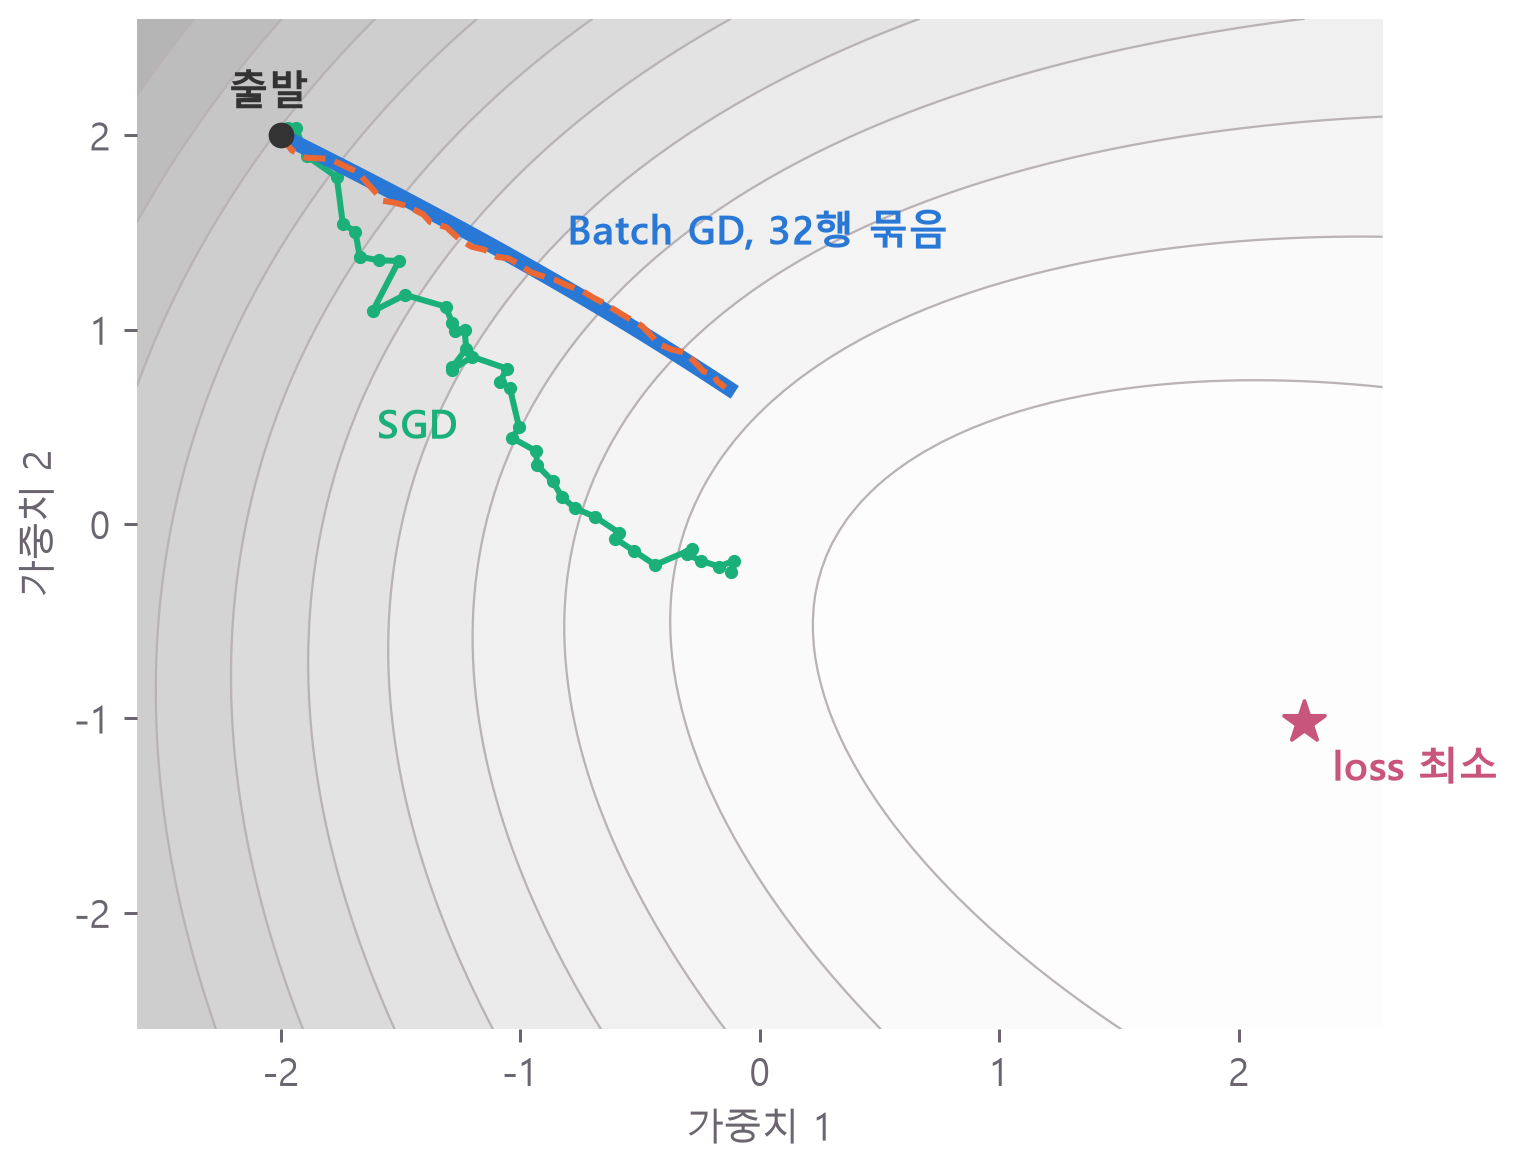
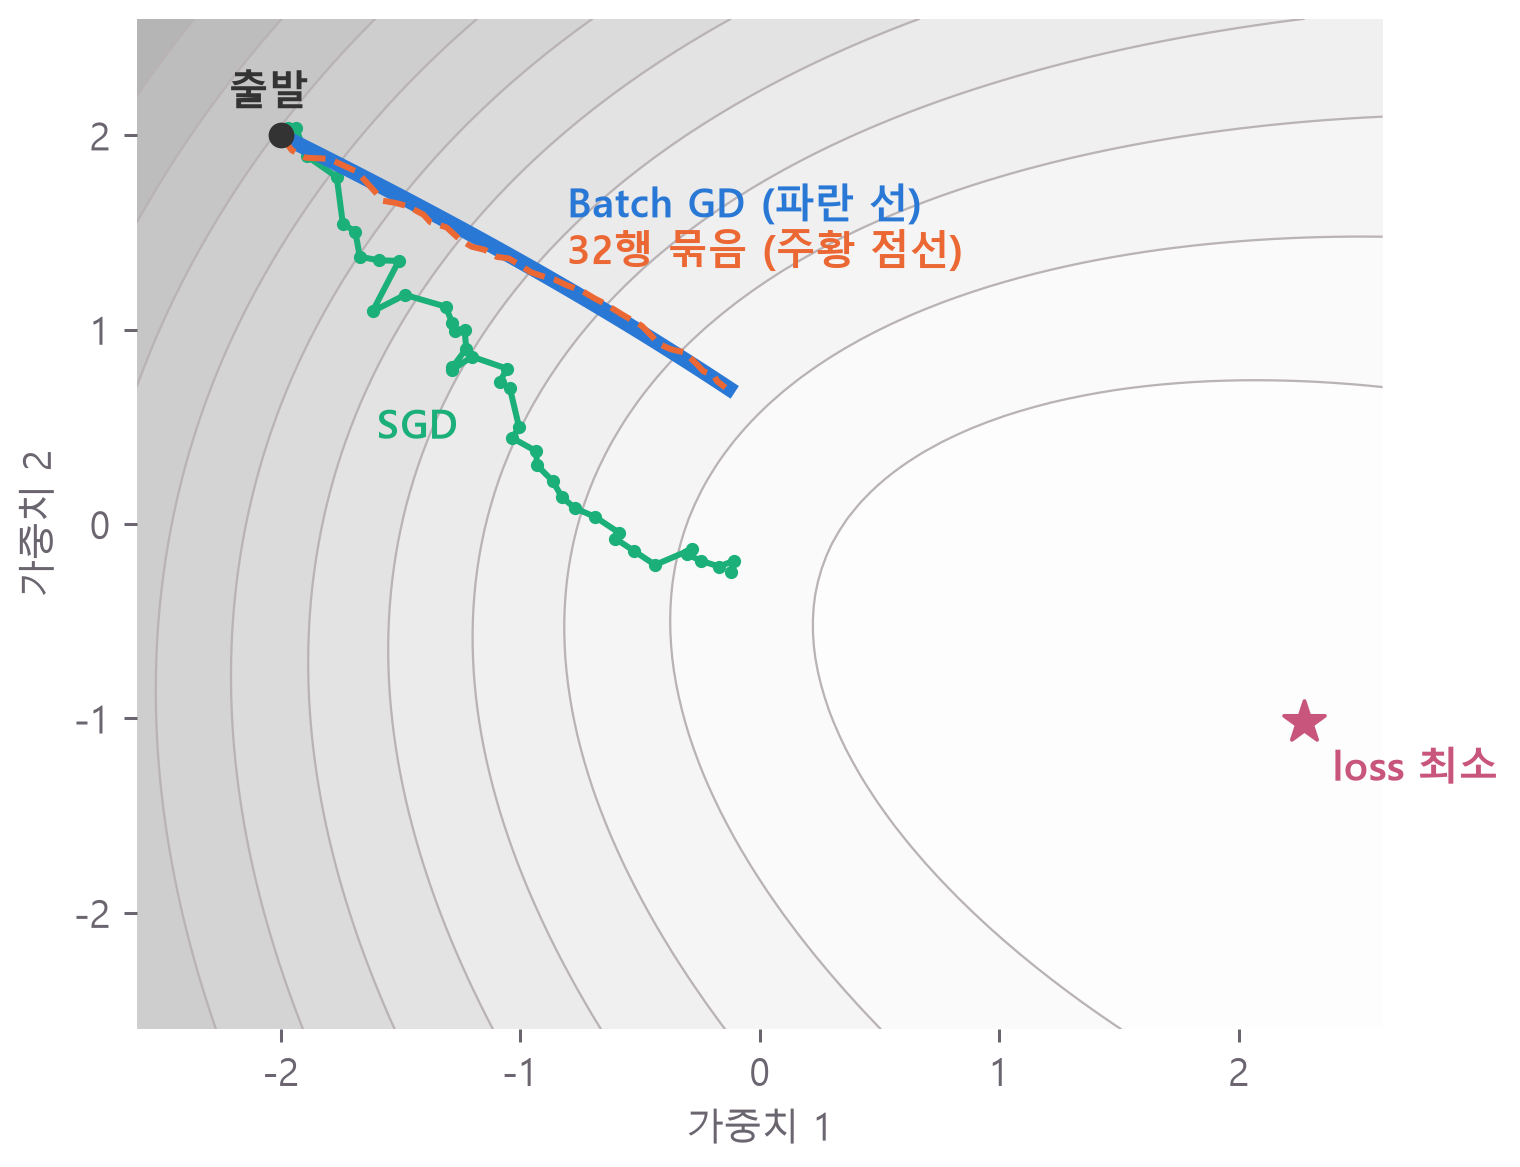
경사하강법 세 방식 글: Fable 검토 반영 (상쇄 설명, 모델 구별, 칸 번호, 그림 이름표)

Changed region(s): [[0.3711, 0.1542, 0.6493, 0.2468]]

diff --git a/_posts/2026-11-04-batch-sgd-mini-batch.md b/_posts/2026-11-04-batch-sgd-mini-batch.md
@@ -82,9 +82,9 @@ $$\text{Iteration 수} = \left\lceil \frac{N}{B} \right\rceil$$
 
 $$N$$은 데이터 수이고, $$\lceil \ \rceil$$는 올림이에요. $$N = 700$$, $$B = 32$$이면 21.875를 올려서 22예요. 이 글에서 "수정 1번"은 Iteration 1번과 같은 말이에요.
 
-이 차이를 눈으로 볼게요. 가중치가 2개뿐인 작은 모델을 같은 지점에서 출발시켜 1 Epoch만 돌렸어요. 뒤에서 만들 데이터의 3번째, 4번째 칸을 입력으로 쓰고 `lr=0.1`로 맞췄어요. 회색 선은 loss가 같은 곳을 이은 등고선이고, 별 쪽으로 갈수록 loss가 작아요.
+이 차이를 눈으로 볼게요. 가중치가 2개뿐인 작은 모델을 같은 지점에서 출발시켜 1 Epoch만 돌렸어요. 뒤에서 만들 데이터의 2번 칸과 3번 칸을 입력으로 쓰고 `lr=0.1`로 맞췄어요. 회색 선은 loss가 같은 곳을 이은 등고선이고, 별 쪽으로 갈수록 loss가 작아요.
 
-<figure><img src="/assets/img/mini-batch-compare/path-one-epoch.png" alt="가중치 2개 모델의 1 Epoch: Batch GD는 출발점 근처에서 1번, 32행 묶음은 22번 움직여 중간쯤까지, SGD는 700번 움직여 loss 최소 근처까지 가서 계속 흔들려요." width="1520" height="1167"></figure>
+<figure><img src="/assets/img/mini-batch-compare/path-one-epoch.png" alt="가중치 2개 모델의 1 Epoch: Batch GD는 출발점 근처에서 1번, 32행 묶음은 22번 움직여 조금 내려가고, SGD는 700번 움직여 loss 최소 근처까지 가서 계속 흔들려요." width="1520" height="1167"></figure>
 
 같은 1 Epoch인데 Batch GD는 한 걸음이고, SGD는 loss 최소 근처까지 가서도 계속 흔들려요. 그럼 어느 방식이 좋을까요? 큰 모델로 직접 돌려 볼게요. 식은 [경사하강법 정리](/2026/10/26/gradient-descent-init/)에도 있어요.
 
@@ -332,15 +332,19 @@ for name, size in sizes.items():
 
 <figure><img src="/assets/img/mini-batch-compare/loss-by-update.png" alt="가중치를 700번 고치는 동안 700행, 256행, 32행은 모두 0.19까지 매끄럽게 내려가고, 1행(SGD)은 흔들리며 0.25에 머물러요." width="1520" height="1194"></figure>
 
-앞의 가중치 2개 모델로 40번씩 고친 경로를 보면 더 잘 보여요.
+앞의 가중치 2개 모델로 40번씩 고친 경로를 보면 Batch GD와 32행 묶음이 거의 같은 길로 가요.
 
-<figure><img src="/assets/img/mini-batch-compare/path-same-updates.png" alt="가중치 2개 모델을 40번씩 고친 경로: Batch GD와 32행 묶음은 거의 같은 길로 가고, SGD는 지그재그로 다른 곳에 도착해요." width="1520" height="1167"></figure>
+<figure><img src="/assets/img/mini-batch-compare/path-same-updates.png" alt="가중치 2개 모델을 40번씩 고친 경로: Batch GD와 주황 점선의 32행 묶음은 거의 같은 길로 가고, SGD는 지그재그로 다른 길을 가요." width="1520" height="1167"></figure>
 
-그럼 32행 묶음의 기울기가 전체와 거의 같아서 겹치는 걸까요? 재 보니 그렇지 않았어요. 두 기울기의 방향이 얼마나 같은지는 cosine similarity로 재요. 1이면 같은 방향, 0이면 상관없는 방향이에요.
+SGD는 다른 길로 가는데, 이 40번만 보면 끝점의 loss가 0.71로 Batch GD의 0.87보다 오히려 낮아요. 앞의 700번 그림에서는 SGD가 위에 있으니, 짧은 구간만 보고 판단하면 안 돼요.
+
+그럼 32행 묶음의 기울기가 전체와 거의 같아서 겹치는 걸까요? 이번에는 4절의 4칸 입력 모델로 재 봤어요. 두 기울기의 방향이 얼마나 같은지는 cosine similarity로 재요. 1이면 같은 방향, 0이면 상관없는 방향이에요.
 
 <figure><img src="/assets/img/mini-batch-compare/grad-direction.png" alt="전체 기울기와의 cosine similarity 평균: 학습 시작 때 1행 0.19, 32행 0.80, 256행 0.98이고, 300번 고친 뒤에는 1행 0.09, 32행 0.29, 256행 0.70으로 낮아져요." width="1520" height="1221"></figure>
 
-점 하나가 무작위로 뽑은 묶음 하나예요. 학습이 진행되면 32행 묶음 하나의 방향은 평균 0.29까지 떨어져요. 그런데 묶음마다 어긋나는 방향이 달라서 서로 상쇄돼요. 같은 가중치에서 32행 묶음 22개의 기울기를 평균 내면 cosine similarity가 0.9997이에요. `lr=0.1`로 조금씩 움직이니, 여러 묶음을 거치며 전체 기울기를 따라가는 거예요. SGD는 1행의 방향이 훨씬 더 흩어져서 흔들림이 크게 남아요.
+점 하나가 무작위로 뽑은 묶음 하나예요. 학습이 진행되면 32행 묶음 하나의 방향은 평균 0.29까지 떨어져요. 묶음 하나만 보면 전체와 꽤 달라요.
+
+그래도 1 Epoch 동안 700행을 한 번씩 다 쓰니, 22개 묶음의 기울기를 평균 내면 전체 기울기와 거의 같아져요. 같은 가중치에서 재면 cosine similarity가 0.9997이에요. 묶음마다 어긋난 방향이 서로 상쇄되는 거예요. 한 걸음이 작아 22번 고치는 동안 가중치가 많이 움직이지 않으면, 이 상쇄가 실제 학습에서도 유지돼요. loss가 겹친 이유를 이렇게 볼 수 있어요. 1행 묶음은 방향이 훨씬 더 흩어져서 loss가 크게 흔들렸어요.
 
 그런데 700번 고치는 동안 본 행 수는 크게 달라요.
 
